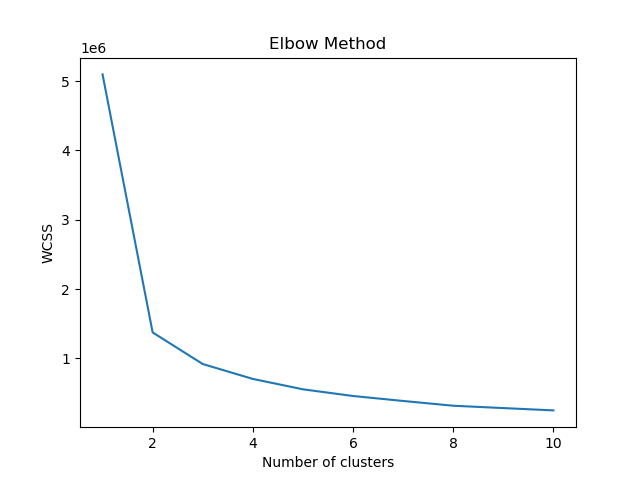
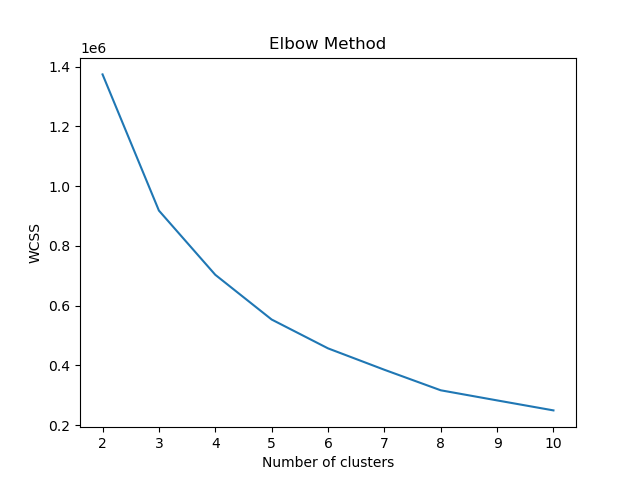
Improved system

diff --git a/Descriptive/kmeans.py b/Descriptive/kmeans.py
@@ -1,6 +1,7 @@
 import pandas as pd
 from sklearn.cluster import KMeans
 from sklearn.decomposition import PCA
+from sklearn.metrics import silhouette_score
 import matplotlib.pyplot as plt
 import os
 
@@ -16,32 +17,37 @@ def kmeans_clustering():
     pca = PCA(n_components=2)
     data_pca = pca.fit_transform(data)
 
-    # Print the PCA components
-    print("PCA components(Kmeans):")
-    print(pca.components_)
-    print("\n")
-
     # Create a list to store the WCSS values for the elbow method
     wcss = []
+    silhouette = []
 
     # Change the number of clusters from 1 to 10 in a loop
-    for i in range(1, 11):
+    for i in range(2, 11): # silhouette_score requires at least 2 clusters
         kmeans = KMeans(n_clusters=i, init='k-means++', max_iter=300, n_init=10, random_state=0)
         kmeans.fit(data_pca)
         wcss.append(kmeans.inertia_)
+        silhouette.append(silhouette_score(data_pca, kmeans.labels_))
 
     # Plot the graph for the elbow method
-    plt.plot(range(1, 11), wcss)
+    plt.plot(range(2, 11), wcss)
     plt.title('Elbow Method')
     plt.xlabel('Number of clusters')
     plt.ylabel('WCSS')  # within cluster sum of squares
     plt.savefig(os.path.join('figures', 'elbow_method.png')) # Save the figure
     plt.close()
 
-    # Determine the optimal number of clusters (elbow is 2 in this example)
-    optimal_cluster_number = 3
+    # Plot the graph for the silhouette scores
+    plt.plot(range(2, 11), silhouette)
+    plt.title('Silhouette Scores')
+    plt.xlabel('Number of clusters')
+    plt.ylabel('Silhouette Score')
+    plt.savefig(os.path.join('figures', 'silhouette_scores.png')) # Save the figure
+    plt.close()
+
+    # Determine the optimal number of clusters (elbow is at 2 in this example)
+    optimal_cluster_number = 2
     kmeans = KMeans(n_clusters=optimal_cluster_number, init='k-means++', max_iter=300, n_init=10, random_state=0)
-    print("Optimal number of clusters: " + str(optimal_cluster_number) + "\n")
+    print("Number of clusters for kmean(calculated by elbow method & silhouette score): " + str(optimal_cluster_number) + "\n")
     pred_y = kmeans.fit_predict(data_pca)
 
     # Create a scatter plot of the first two principal components, colored by cluster labels

diff --git a/Descriptive/dbscan.py b/Descriptive/dbscan.py
@@ -1,0 +1,49 @@
+import pandas as pd
+from sklearn.cluster import DBSCAN
+from sklearn.neighbors import NearestNeighbors
+import matplotlib.pyplot as plt
+import numpy as np
+import os
+
+def dbscan_clustering():
+    # Ensure figures directory exists
+    if not os.path.exists("figures"):
+        os.makedirs("figures")
+
+    # Load your data
+    data = pd.read_excel("preprocessed_data.xlsx")
+
+    # Compute the nearest neighbors
+    nearest_neighbors = NearestNeighbors(n_neighbors=2)
+    neighbors = nearest_neighbors.fit(data)
+    distances, indices = neighbors.kneighbors(data)
+
+    # Sort the distance and plot it
+    distances = np.sort(distances, axis=0)
+    distances = distances[:,1]
+    plt.figure(figsize=(10,5))
+    plt.plot(distances)
+    plt.title('K-distance Graph')
+    plt.xlabel('Data Points sorted by distance')
+    plt.ylabel('Epsilon')
+    plt.savefig(os.path.join('figures', 'k_distance_graph.png'))  # Save the figure
+    plt.close()
+
+    # We can see epsilon value from the knee point in the K-distance graph
+    epsilon = 0.3  # Suppose knee point is at 0.3
+
+    # Initialize DBSCAN with the computed epsilon
+    db = DBSCAN(eps=epsilon, min_samples=5)
+
+    # Fit and predict clusters
+    pred_y = db.fit_predict(data)
+
+    # If we have a 2D data, we can visualize it
+    if data.shape[1] == 2:
+        plt.scatter(data.iloc[:, 0], data.iloc[:, 1], c=pred_y, cmap='viridis')
+        plt.title('Clusters of data')
+        plt.xlabel('Feature 1')
+        plt.ylabel('Feature 2')
+        plt.savefig(os.path.join('figures', 'dbscan_clusters.png'))  # Save the figure
+        plt.close()
+

diff --git a/Descriptive/hierarchical_clustering.py b/Descriptive/hierarchical_clustering.py
@@ -1,0 +1,30 @@
+import pandas as pd
+from scipy.cluster.hierarchy import dendrogram, linkage
+from sklearn.decomposition import PCA
+import matplotlib.pyplot as plt
+import os
+
+def hierarchical_clustering():
+    # Ensure figures directory exists
+    if not os.path.exists("figures"):
+        os.makedirs("figures")
+
+    # Load your data
+    data = pd.read_excel("preprocessed_data.xlsx")
+
+    # Use PCA to reduce dimensionality
+    pca = PCA(n_components=2)
+    data_pca = pca.fit_transform(data)
+
+    # Generate the linkage matrix
+    linked = linkage(data_pca, 'ward')
+
+    # Plot the dendrogram
+    plt.figure(figsize=(10, 7))
+    dendrogram(linked,
+               orientation='top',
+               distance_sort='descending',
+               show_leaf_counts=True)
+    plt.title('Hierarchical Clustering Dendrogram')
+    plt.savefig(os.path.join('figures', 'dendrogram.png')) # Save the figure
+    plt.close()

diff --git a/Descriptive/main.py b/Descriptive/main.py
@@ -2,6 +2,8 @@ import os
 import pandas as pd
 from preprocessing import prepare_data
 from kmeans import kmeans_clustering
+from hierarchical_clustering import hierarchical_clustering
+from dbscan import dbscan_clustering
 
 def main():
     # Ensure figures directory exists
@@ -35,6 +37,13 @@ def main():
 
     # Call the kmeans_clustering function
     kmeans_clustering()
+
+    # Call the hierarchical_clustering function
+    hierarchical_clustering()
+
+    # Call the dbscan_clustering function
+    dbscan_clustering()
+
 
 # Call the function
 main()
